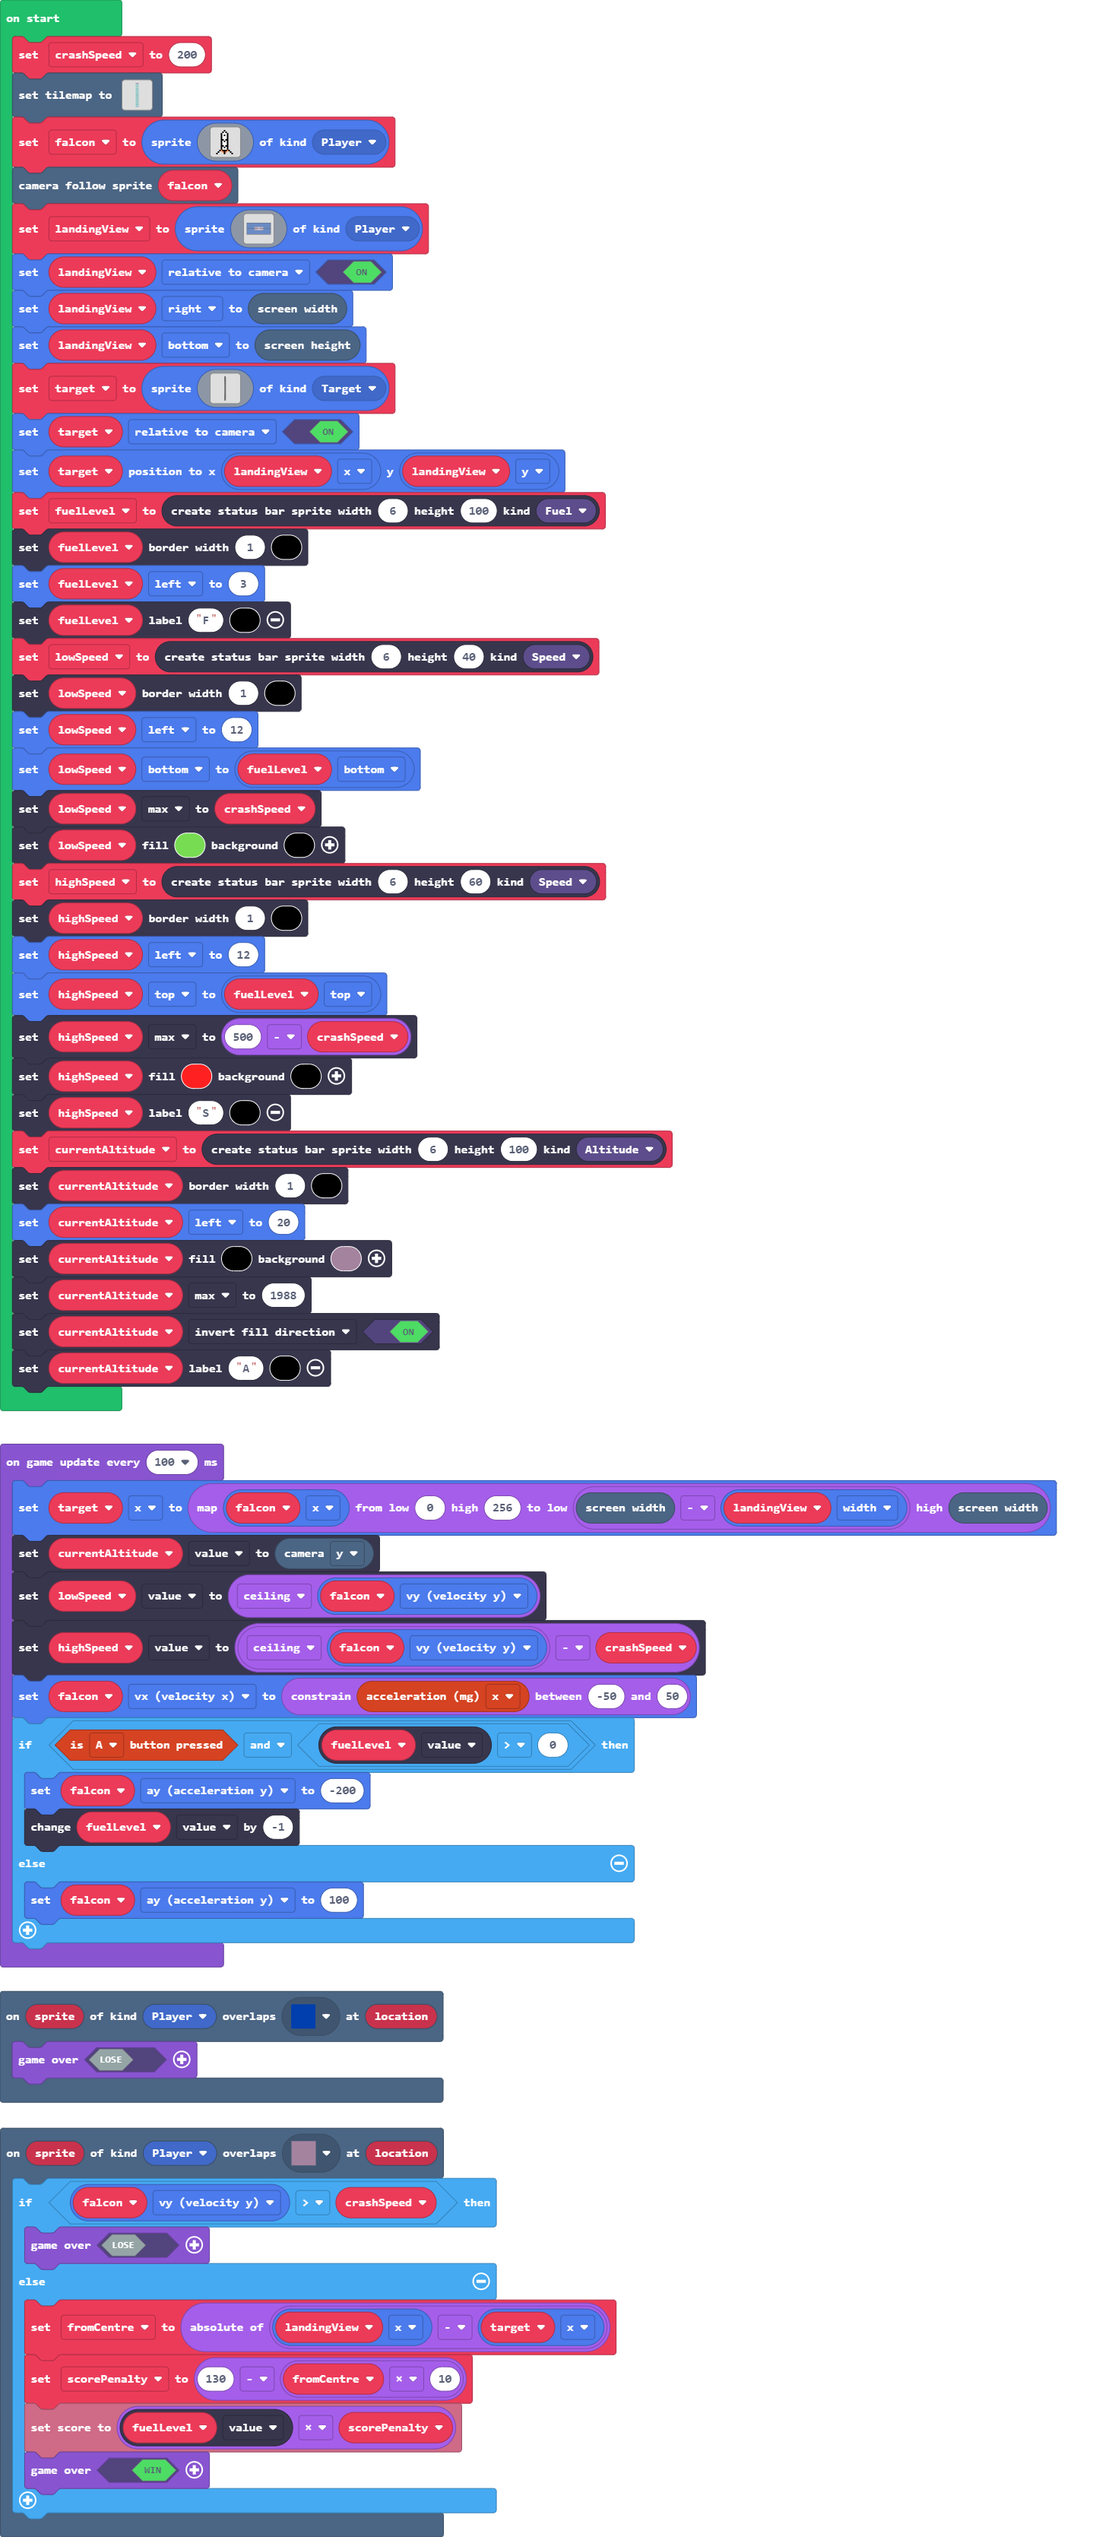
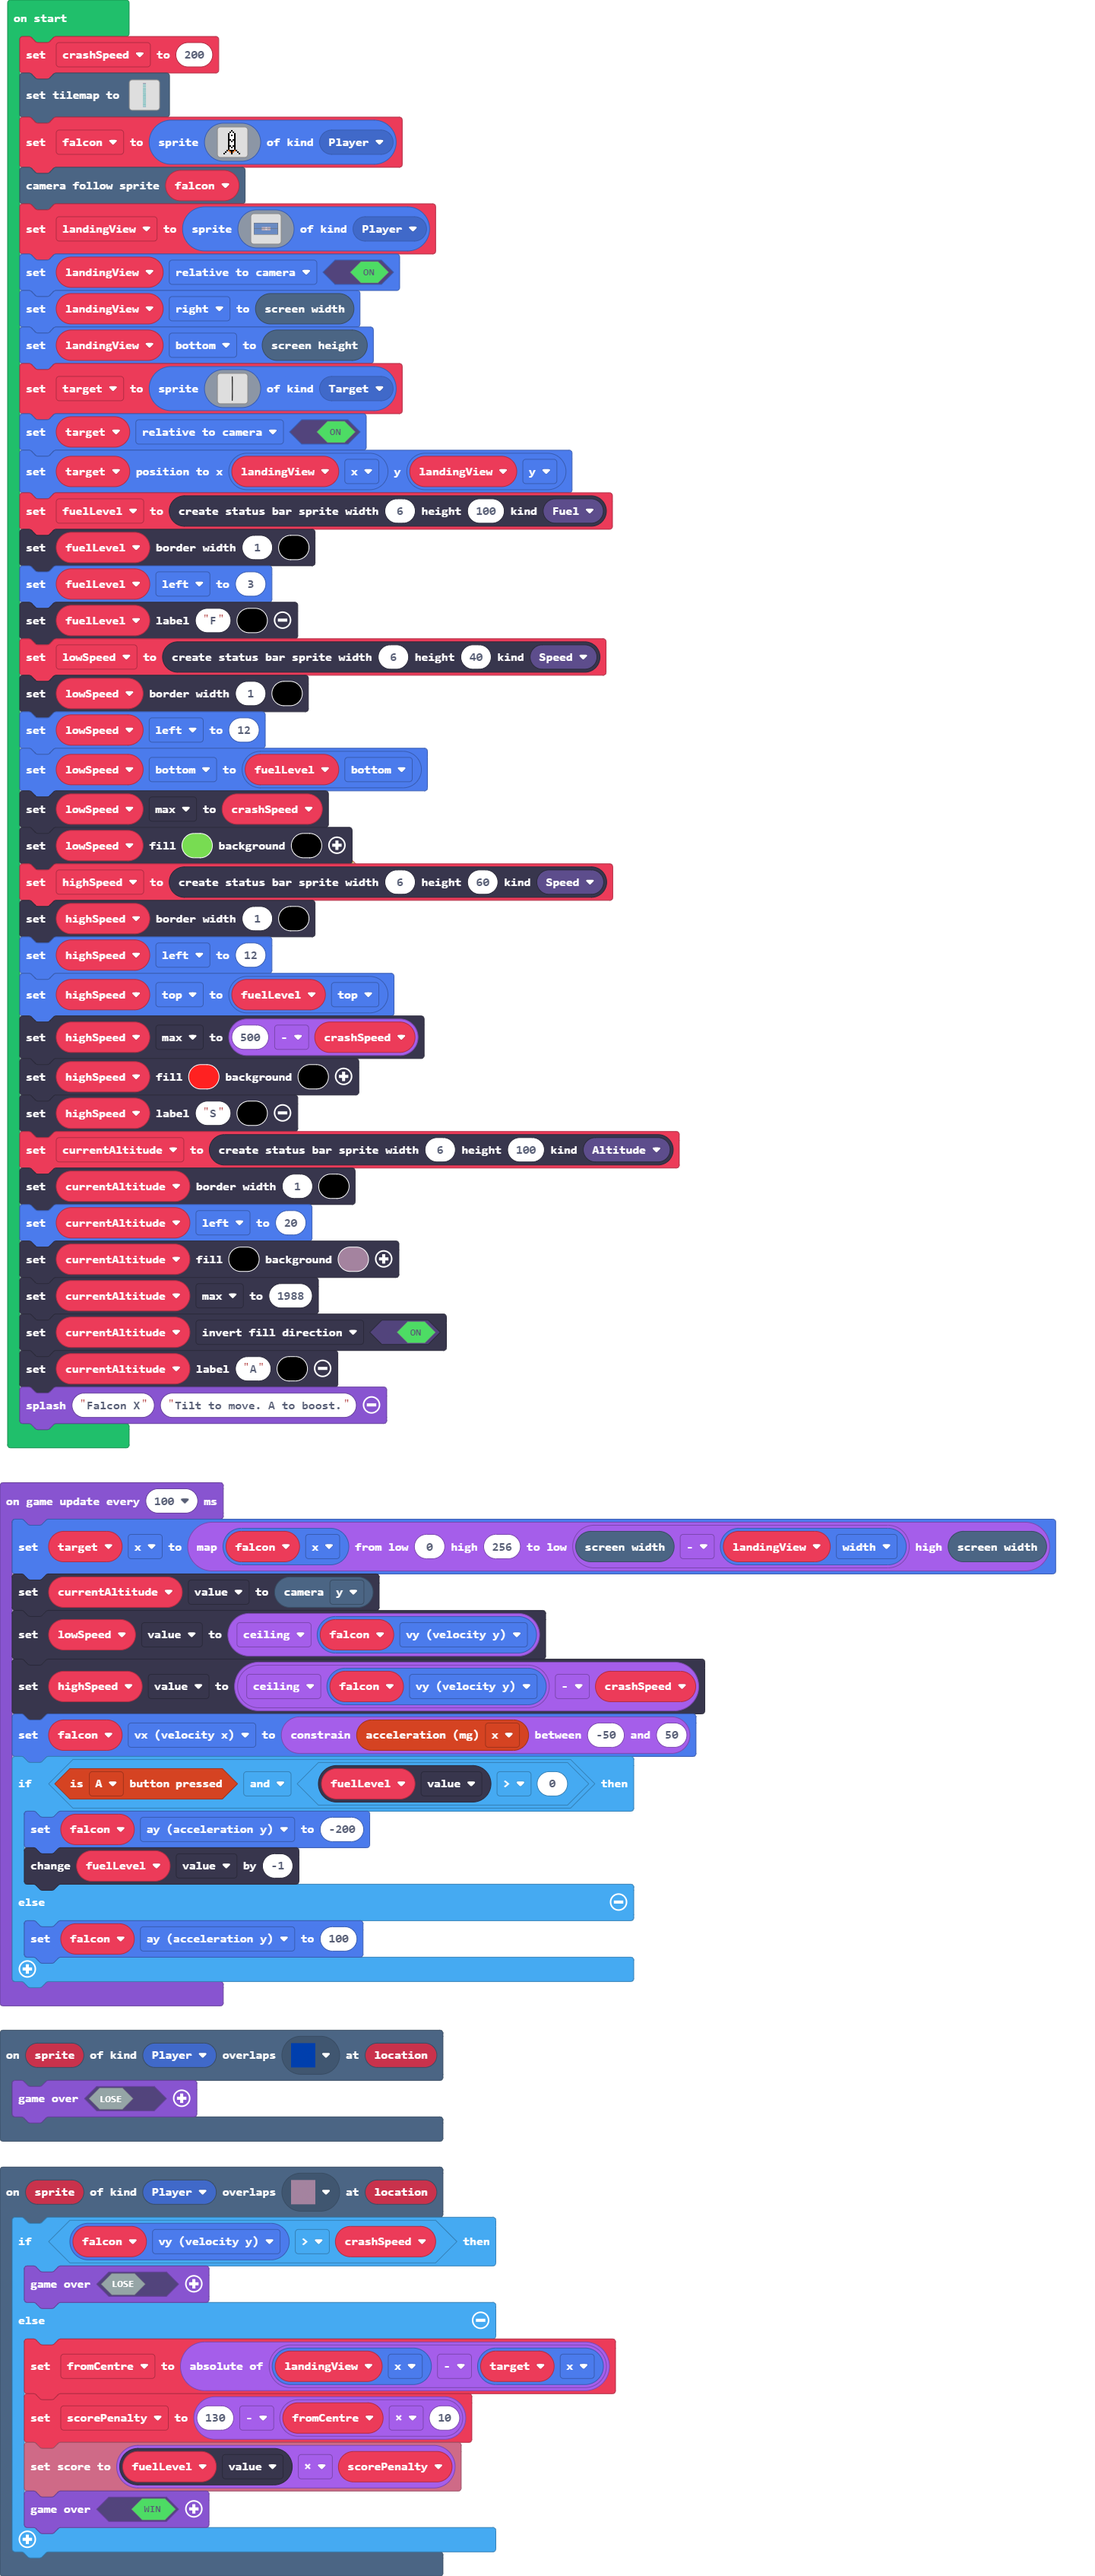
Add simple splash screen to start the game.

Changed region(s): [[0.0, 0.0, 0.9681, 0.9973]]

diff --git a/main.ts b/main.ts
@@ -1,5 +1,6 @@
 namespace SpriteKind {
     export const Target = SpriteKind.create()
+    export const Text = SpriteKind.create()
 }
 namespace StatusBarKind {
     export const Fuel = StatusBarKind.create()
@@ -271,6 +272,7 @@ currentAltitude.setColor(15, 11)
 currentAltitude.max = 1988
 currentAltitude.setStatusBarFlag(StatusBarFlag.InvertFillDirection, true)
 currentAltitude.setLabel("A", 15)
+game.splash("Falcon X", "Tilt to move. A to boost.")
 game.onUpdateInterval(100, function () {
     target.x = Math.map(falcon.x, 0, 256, scene.screenWidth() - landingView.width, scene.screenWidth())
     currentAltitude.value = scene.cameraProperty(CameraProperty.Y)
